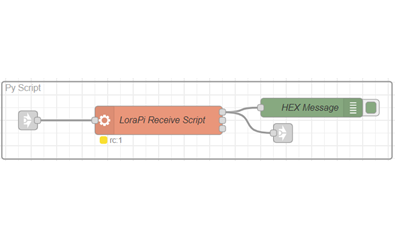
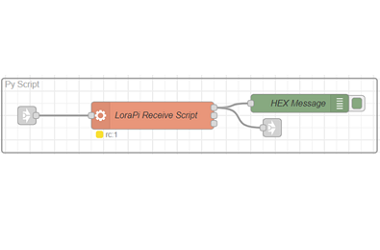
adapt images with the same dimension - gateway and nodered

Changed region(s): [[0.0, 0.364, 1.0, 0.644], [0.0, 0.308, 1.0, 0.364]]

diff --git a/gateway-and-node-red-interface.html b/gateway-and-node-red-interface.html
@@ -280,12 +280,12 @@
 										</div>
 										
 										<p>
-											In the following group arrives the input on LoraPi Receive Script node and it launch 
-											(break) the .py script with the command previously set and return that the gateway will 
+											In the following group (Figure 2) arrives the input on LoraPi Receive Script node and it launch 
+											(break) the .py script with the command previously set (Figure 3) and return that the gateway will 
 											receives from the LoRa Nodes, as you can see in the next screens.
 										</p>
 										<p>
-											About the Extrapolation group, we will focus on Extract Information from payload and DevAddr subgroups.<br>
+											About the Extrapolation group, we will focus on Extract Information from payload and DevAddr subgroups (Figure 4).<br>
 											A focus is on Decrypt LoraWAN, where you need to put your personal Network Secret Key and Application Secret Key.<br>
 											On the first one, we have all the conversion and manipulation part of the payload that our gateway receives.<br>
 											The Sensor data hex/string decode will return the original message with $ separator, 
@@ -332,7 +332,7 @@
 										  <div class="mySlides2 fade">
 											<div class="numbertext">1 / 5</div>
 											<center>
-											<span class="image responsive"><img src="images/Node-RED/home.png" alt="" /></span>
+											<span class="image responsive"><img src="images/Node-RED/home.png" height="75%" /></span>
 											</center>
 											<div class="text">Home Tab</div>
 										  </div>
@@ -340,7 +340,7 @@
 										  <div class="mySlides2 fade">
 											<div class="numbertext">2 / 5</div>
 											<center>
-											<span class="image responsive"><img src="images/Node-RED/device-tab.gif" width="480" height="270"></span>
+											<span class="image responsive"><img src="images/Node-RED/device-tab.gif"></span>
 											</center>
 											<div class="text">Device Tab</div>
 										  </div>
@@ -348,7 +348,7 @@
 										  <div class="mySlides2 fade">
 											<div class="numbertext">3 / 5</div>
 											<center>
-											<span class="image responsive"><img src="images/Node-RED/chart-tab.gif" width="480" height="270"></span>
+											<span class="image responsive"><img src="images/Node-RED/chart-tab.gif"></span>
 											</center>
 											<div class="text">Chart Tab</div>
 										  </div>
@@ -356,7 +356,7 @@
 										  <div class="mySlides2 fade">
 											<div class="numbertext">4 / 5</div>
 											<center>
-											<span class="image responsive"><img src="images/Node-RED/rpi.gif" width="480" height="270"></span>
+											<span class="image responsive"><img src="images/Node-RED/rpi.gif"></span>
 											</center>
 											<div class="text">RPi Control Tab</div>
 										  </div>
@@ -364,7 +364,7 @@
 										  <div class="mySlides2 fade">
 											<div class="numbertext">5 / 5</div>
 											<center>
-											<span class="image responsive"><img src="images/Node-RED/file.gif" width="480" height="270"></span>
+											<span class="image responsive"><img src="images/Node-RED/file.gif"></span>
 											</center>
 											<div class="text">Files Tab</div>
 										  </div>
